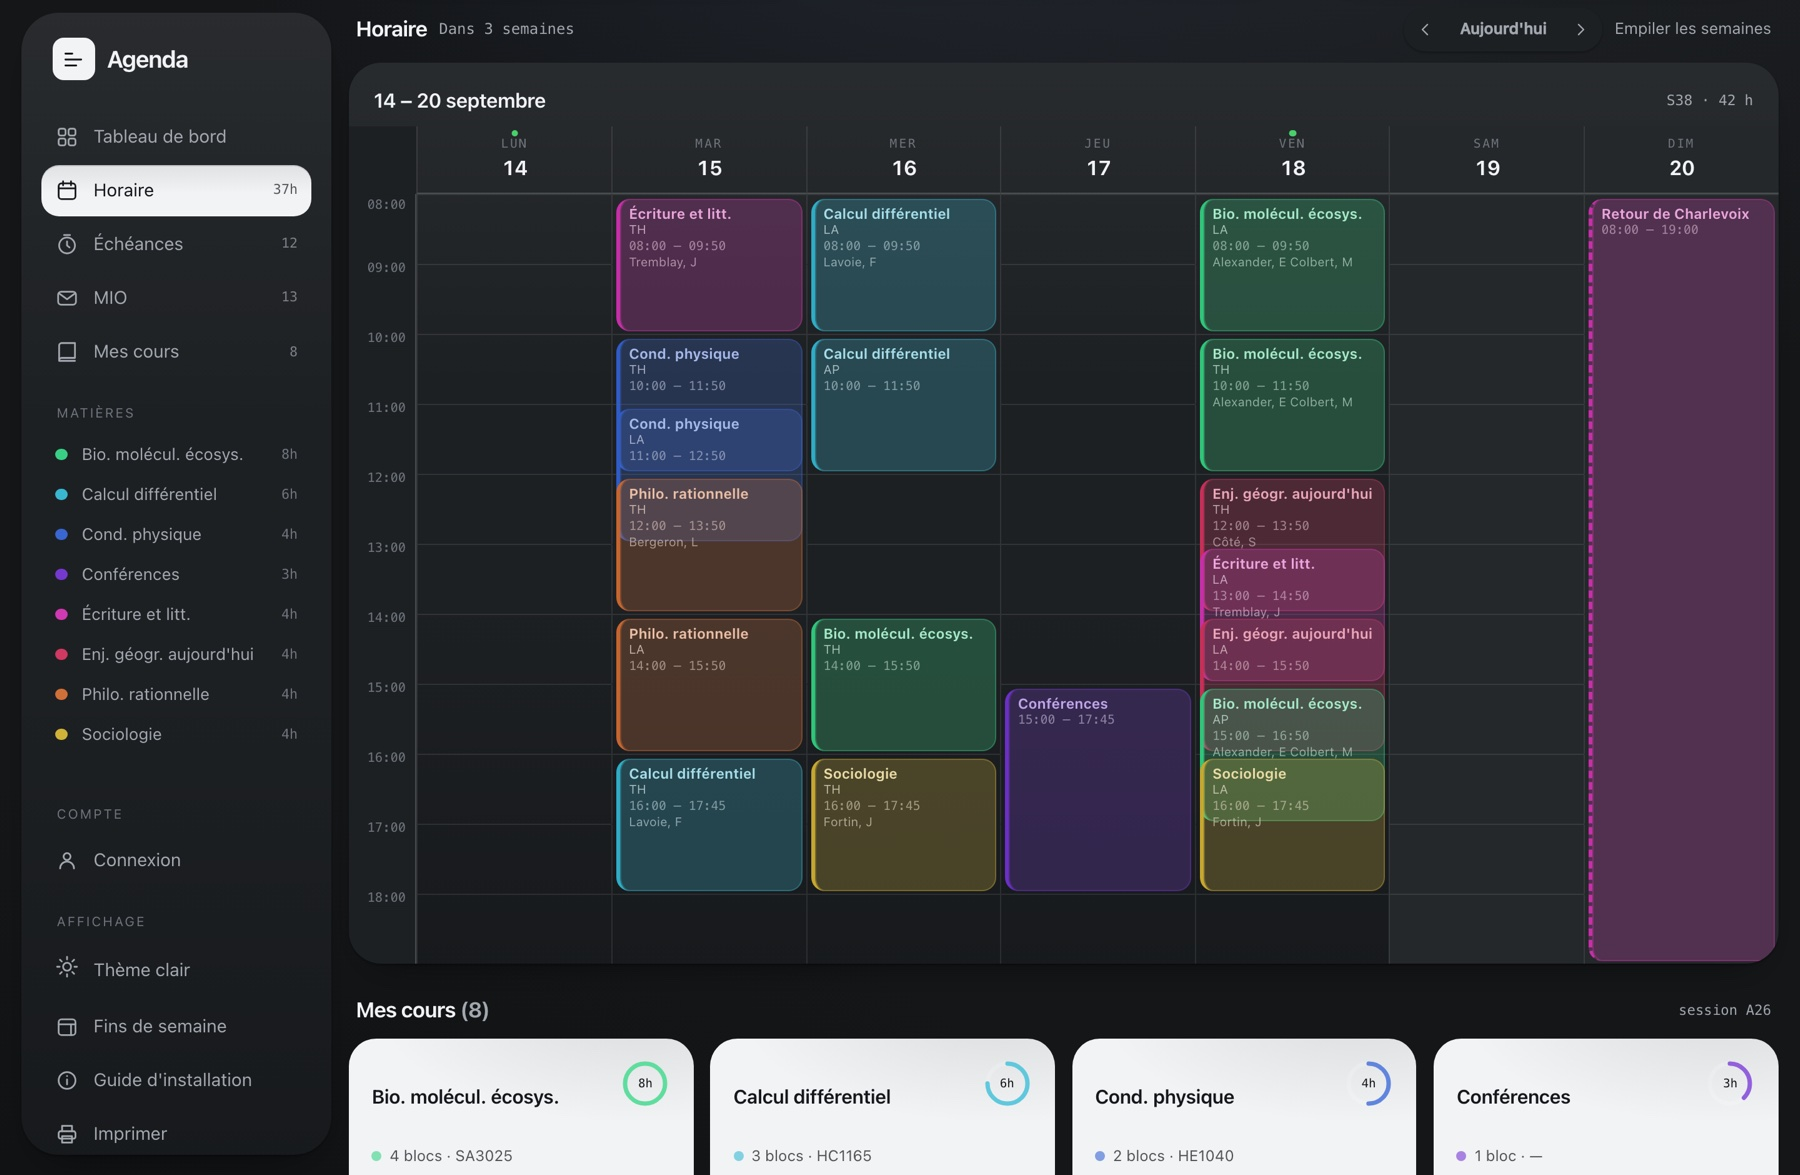
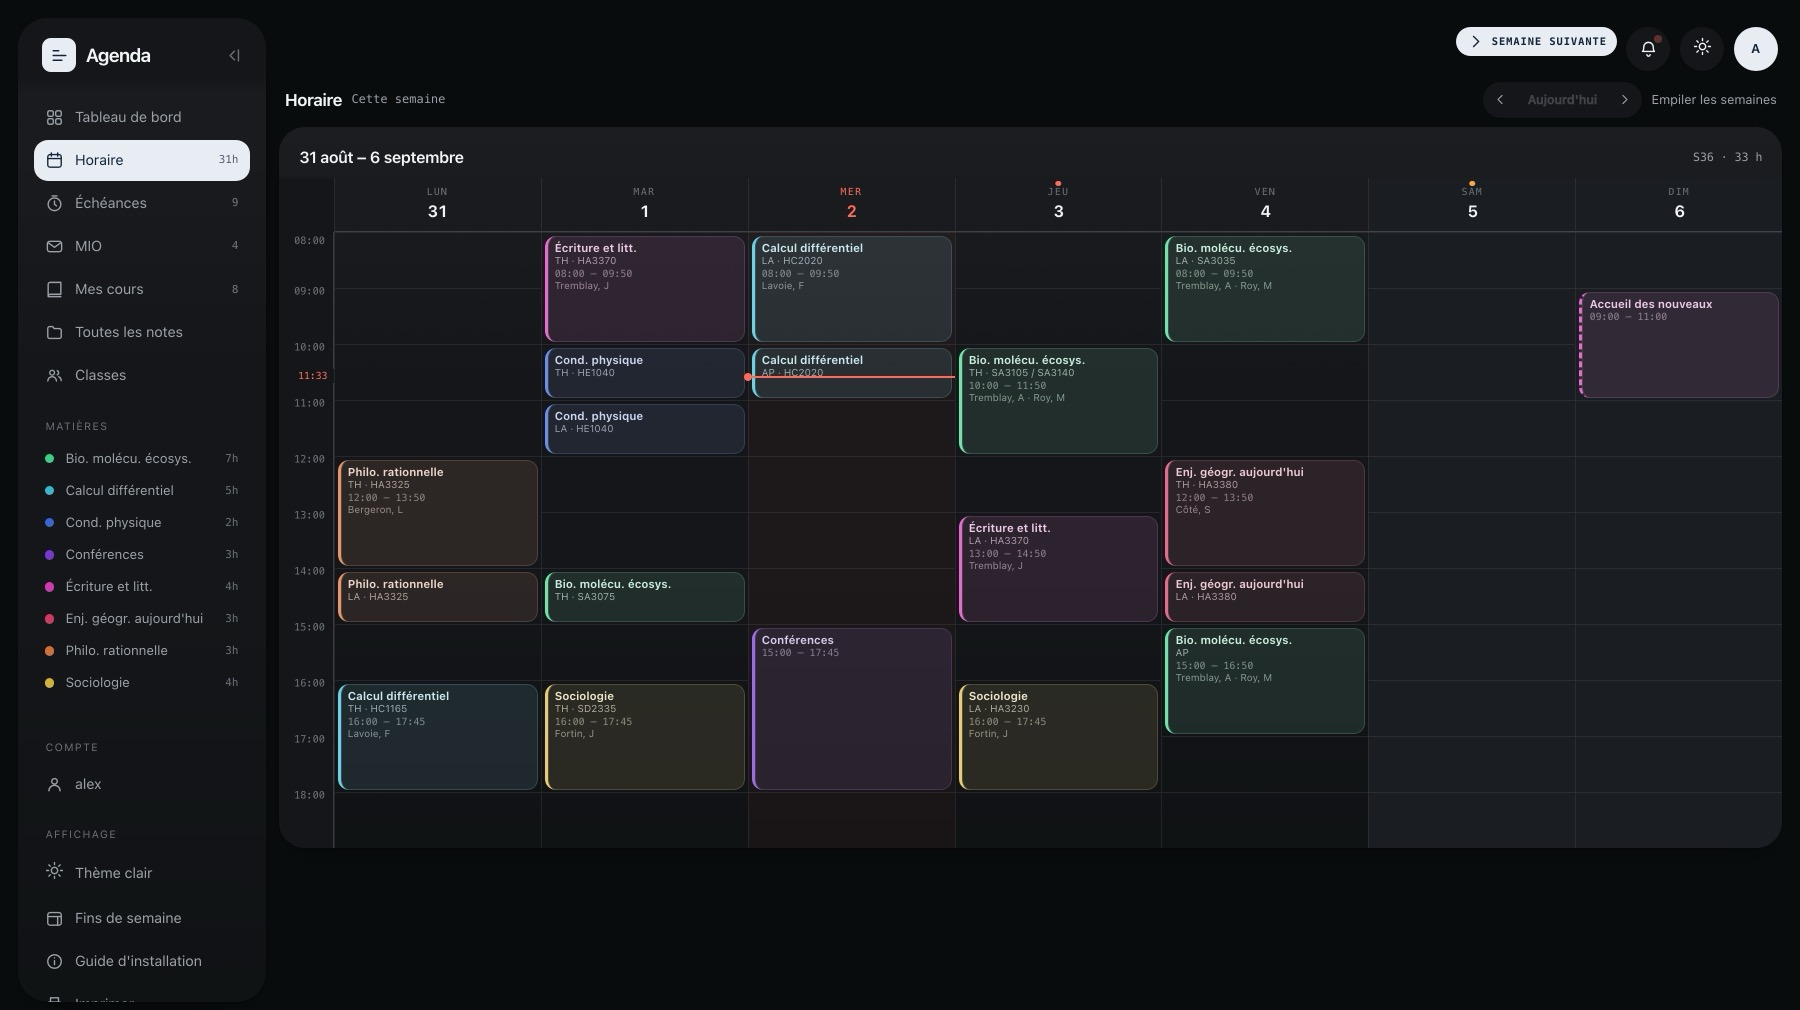
fix(vitrine): les captures publiques cessent de montrer un vrai dossier étudiant
Le guide, la page d'accueil et la vitrine servaient des captures du
tableau de bord réel : des MIO entiers signés par des professeures
nommées, des remises personnelles — aide financière, questionnaire
médical, photo de carte étudiante. Deux images avaient été anonymisées
à moitié : les noms changés, les échéances laissées telles quelles.

Les six sont refaites sur un jeu inventé de bout en bout. Les cours et
les locaux restent ceux du cégep — ils sont publics et tiennent l'image
debout ; tout ce qui désigne une personne est d'emprunt, en reprenant
les noms déjà employés dans les captures propres pour que la série
reste cohérente. Les dates se comptent depuis le jour de la génération :
une reprise dans six mois montrera encore des remises à venir, pas un
mur de retards.

Les width/height suivent maintenant les fichiers réels. Trois étaient
déjà faux avant — omnivox-login.png s'annonçait en 884x1272 pour un
fichier de 896x1280.

diff --git a/public/guide.html b/public/guide.html
@@ -284,7 +284,7 @@ footer .droite{margin-left:auto}
         du vert au rouge, jusque sur la date dans l’horaire.</p>
         <p>Coche, c’est fait. Supprime, ça ne revient pas.</p>
       </div>
-      <figure class="cadre"><img src="/img/app-echeances.jpg" width="878" height="1090" loading="lazy"
+      <figure class="cadre"><img src="/img/app-echeances.jpg" width="900" height="669" loading="lazy"
         alt="La liste des échéances, chacune avec son compte à rebours coloré"></figure>
     </div>
 
@@ -298,7 +298,7 @@ footer .droite{margin-left:auto}
         déplacée — pas dupliquée.</p>
         <p>Seuls les nouveaux messages sont analysés. Jamais deux fois le même.</p>
       </div>
-      <figure class="cadre"><img src="/img/app-mios.jpg" width="1782" height="1090" loading="lazy"
+      <figure class="cadre"><img src="/img/app-mios.jpg" width="1203" height="661" loading="lazy"
         alt="Les résumés de MIO avec leurs actions proposées"></figure>
     </div>
 
@@ -312,7 +312,7 @@ footer .droite{margin-left:auto}
         aucune erreur.</p>
         <p>Glisse des cases vides pour ajouter étude, travail, entraînement.</p>
       </div>
-      <figure class="cadre"><img src="/img/app-horaire.jpg" width="1800" height="1175" loading="lazy"
+      <figure class="cadre"><img src="/img/app-horaire.jpg" width="1800" height="1010" loading="lazy"
         alt="La grille d’horaire, cours en couleurs par matière"></figure>
     </div>
   </div>
@@ -345,7 +345,7 @@ footer .droite{margin-left:auto}
         <p>Une fenêtre s’ouvre sur la vraie page Omnivox, champs déjà remplis.
         Quand le code de vérification apparaît sur ton téléphone, tape-le, et
         coche « se souvenir de cet appareil ».</p>
-        <figure><img src="/img/omnivox-login.png" width="884" height="1272" loading="lazy"
+        <figure><img src="/img/omnivox-login.png" width="896" height="1280" loading="lazy"
           alt="La page de connexion Omnivox du Cégep de Trois-Rivières"></figure>
       </div>
       <div class="geste">

diff --git a/agenda.html b/agenda.html
@@ -444,7 +444,7 @@ li.done .tx{color:var(--faint);text-decoration:line-through}
 .pop input{width:100%;margin-top:.7rem;background:var(--surface-2);border:1px solid transparent;border-radius:12px;padding:.6rem .75rem;color:var(--ink);font:inherit;font-size:.87rem}
 .pop input:focus{outline:none;border-color:var(--ac)}
 /* Le composeur de bloc n'a qu'un champ, la retouche d'un cours en aligne
-   cinq : sans étiquette, « SA3075 » et « Alexander, E » se ressemblent. */
+   cinq : sans étiquette, « SA3075 » et « Tremblay, A » se ressemblent. */
 .pop .fld{display:block;margin-top:.6rem}
 .pop .fld>span{display:block;font-size:.66rem;letter-spacing:.11em;text-transform:uppercase;color:var(--faint);margin-bottom:.25rem}
 .pop .fld input{margin-top:0}
@@ -2669,7 +2669,7 @@ a,button{touch-action:manipulation}
 
       <section class="lp-row flip" data-rev>
         <figure class="lp-pic">
-          <img loading="lazy" src="img/app-mios.jpg" width="1060" height="749"
+          <img loading="lazy" src="img/app-mios.jpg" width="1203" height="661"
                onerror="this.closest('.lp-row').classList.add('noimg')"
                alt="Les MIO résumés en une phrase, avec leurs actions proposées">
         </figure>
@@ -2689,7 +2689,7 @@ a,button{touch-action:manipulation}
           <p class="dim">Heures réelles, locaux, professeurs. Vérifié : 18 blocs sur 18.</p>
         </div>
         <figure class="lp-band-pic">
-          <img loading="lazy" src="img/app-horaire-mini.jpg" width="1500" height="1053"
+          <img loading="lazy" src="img/app-horaire-mini.jpg" width="1203" height="720"
                onerror="this.closest('.lp-band').classList.add('noimg')"
                alt="La grille d'horaire d'une semaine, chaque cours dans la couleur de sa matière">
         </figure>

diff --git a/site/app/page.tsx b/site/app/page.tsx
@@ -115,7 +115,7 @@ export default function Vitrine() {
 
         <section className="lp-row flip" data-rev>
           <figure className="lp-pic">
-            <img loading="lazy" src="/img/app-mios.jpg" width="1060" height="749"
+            <img loading="lazy" src="/img/app-mios.jpg" width="1203" height="661"
                  alt="Les MIO résumés en une phrase, avec leurs actions proposées" />
           </figure>
           <div className="txt">
@@ -134,7 +134,7 @@ export default function Vitrine() {
             <p className="dim">Heures réelles, locaux, professeurs. Vérifié : 18 blocs sur 18.</p>
           </div>
           <figure className="lp-band-pic">
-            <img loading="lazy" src="/img/app-horaire-mini.jpg" width="1500" height="1053"
+            <img loading="lazy" src="/img/app-horaire-mini.jpg" width="1203" height="720"
                  alt="La grille d'horaire d'une semaine, chaque cours dans la couleur de sa matière" />
           </figure>
         </section>
